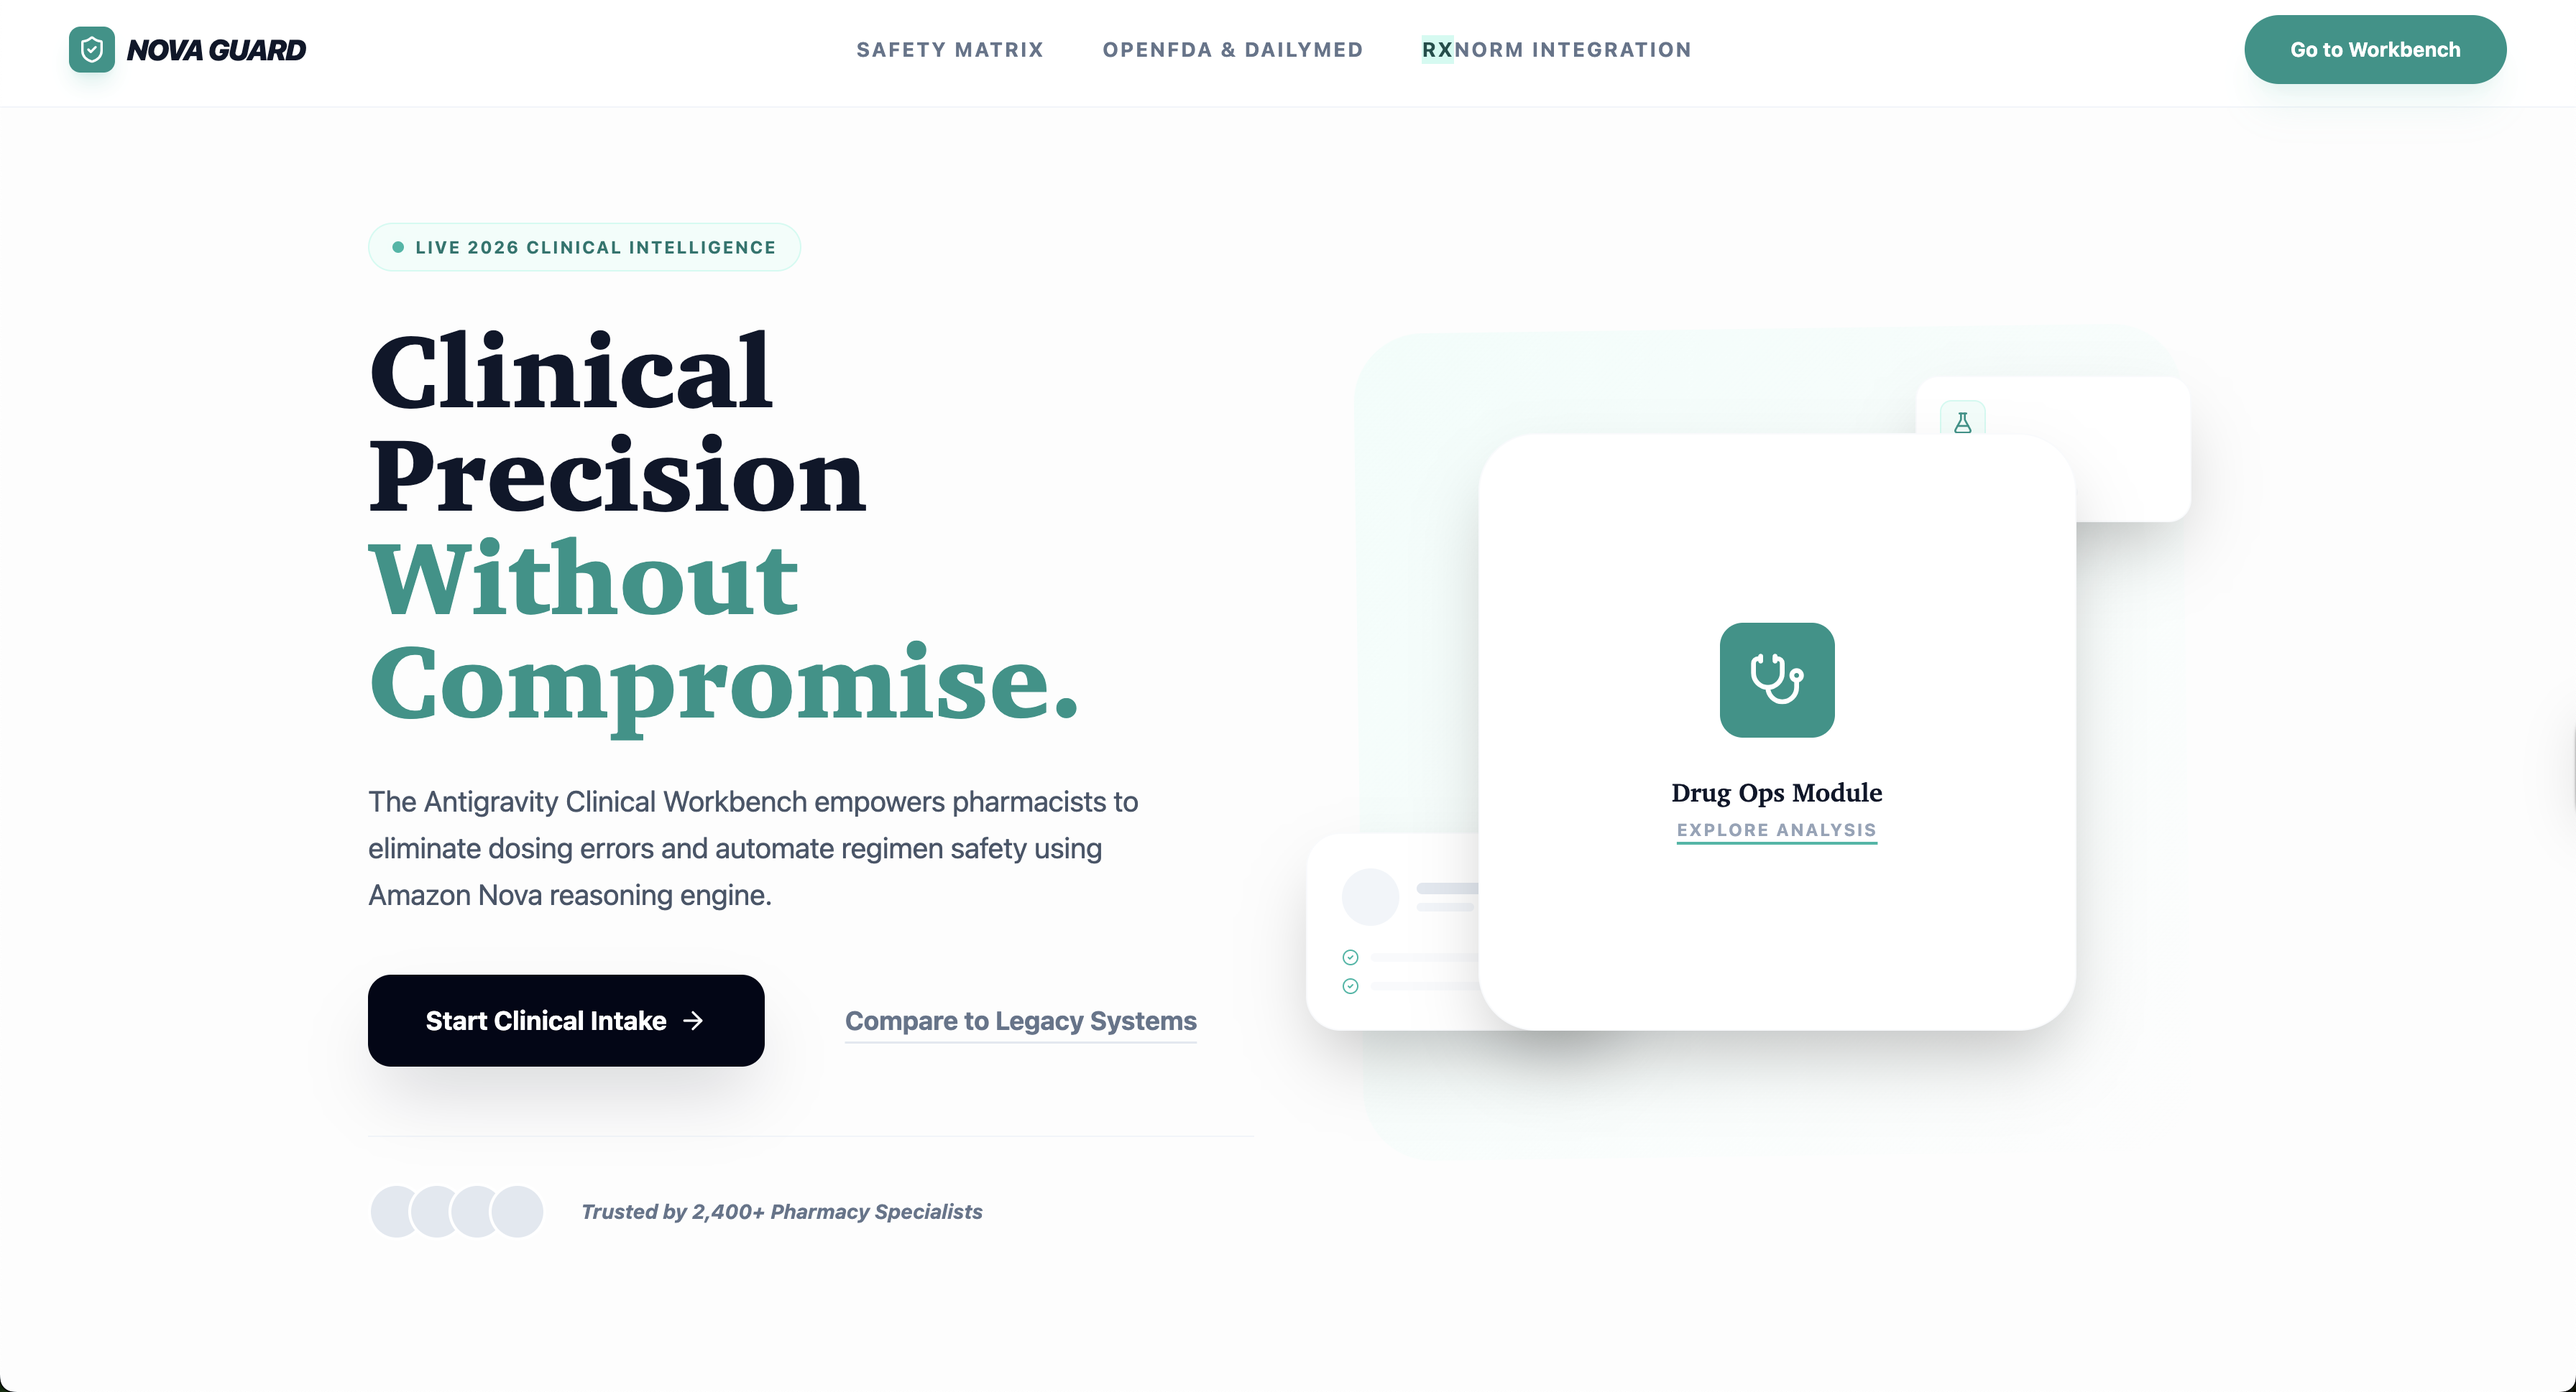
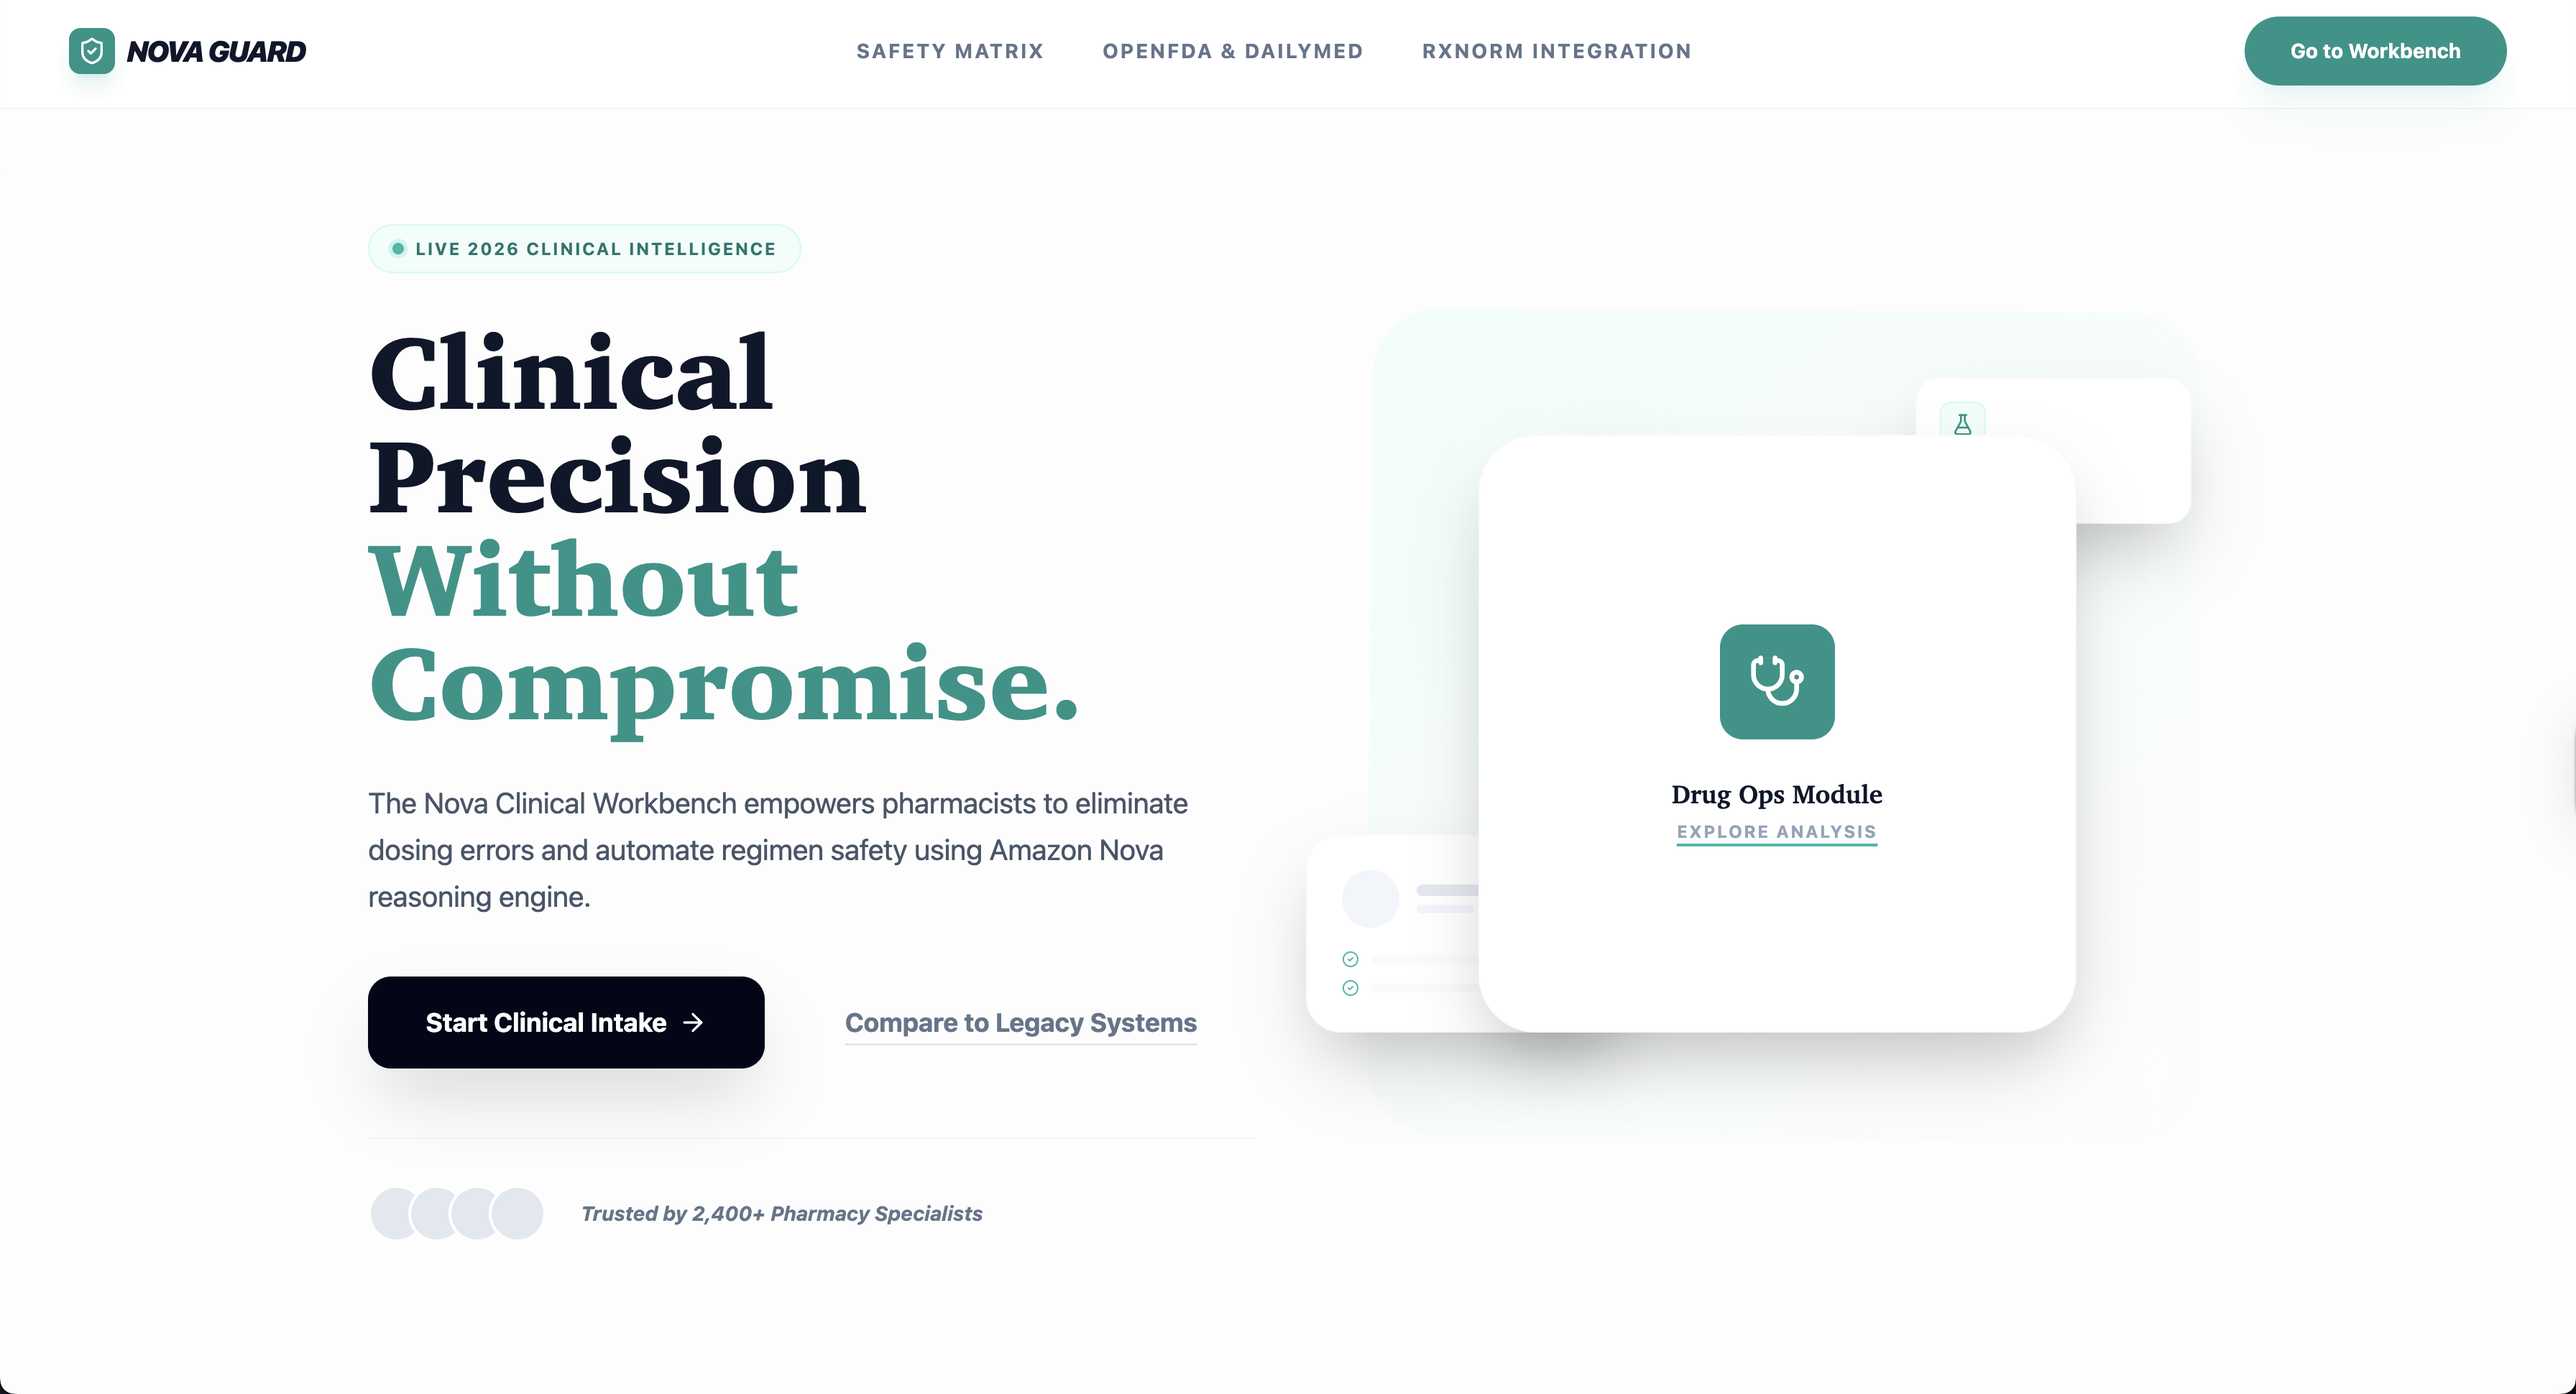
imag changed

diff --git a/about_project.md b/about_project.md
@@ -1,0 +1,47 @@
+# About Nova Guard
+
+## What Inspired Me
+I built Nova Guard because I am a pharmacist in tech working at the intersection of healthcare and technology, holding dual degrees in Pharmacology and Pharmacy. Every day, I found myself manually reviewing complex prescriptions, running a mental checklist that had to factor in a massive, multi-dimensional web of data: drug-specific issues, patient demographics, active comorbidities, pharmacogenomics (PGx), and fluctuating laboratory values. 
+
+Doing this entirely in your head or by constantly switching between five different clinical databases is cognitively exhausting and highly prone to human error, not just for me, but for every pharmacist and clinician on the floor. I wanted to build a product that acts as a definitive safety layer; an intelligent clinical companion that automatically synthesizes all patient and drug factors to make medication management faster, safer, and infinitely more reliable.
+
+## How I Built It
+Nova Guard is designed as a high-performance, AI-driven Clinical Decision Support System (CDSS). 
+
+**The Tech Stack:**
+*   **Frontend:** A responsive, hyper-focused UI built with **React**, **TypeScript**, **TailwindCSS**, and **Shadcn UI**. State management is optimized so pharmacists can drag-and-drop lab reports directly into patient profiles instantly.
+*   **Backend & Security:** A robust **Python** server utilizing **FastAPI** for asynchronous endpoint delivery, paired with **SQLAlchemy** and **PostgreSQL** for secure patient data persistence. The entire data pipeline is built from the ground up to be **HIPAA compliant**, ensuring all Protected Health Information (PHI) is handled securely, both at rest and in transit.
+*   **Clinical Data Infrastructure:** To ensure absolute clinical accuracy, the app integrates deeply with **National Library of Medicine (NLM)** and **FDA APIs**, specifically utilizing **RxNorm**, **RxClass**, **DailyMed**, and the **OpenFDA** datasets to retrieve highly structured, verified drug labels.
+*   **AI Orchestration:** The core "brain" of Nova Guard is powered by **AWS Bedrock** , **Open AI Api** and the **Amazon Nova** model family (Micro, Lite, Sonic). I also utilized **LangGraph** to build sophisticated, multi-step clinical reasoning agents that operate on top of the structured FDA data.
+
+**Core Features:**
+Nova Guard doesn't just read data; it actively interprets it. 
+1.  **Multi-Modal Inputs (Text, Vision & Voice):** Utilizing Amazon Nova, the system can extract structured biomarker data directly from physical laboratory reports via image recognition as well as extract medications in a precritpion with required informations. Furthermore, I integrated **Amazon Nova 2 Sonic** to enable hands-free voice dictation. Pharmacists can verbally review cases, transcribe their speech to text for submission, and the system can even read the clinical response back aloud, ideal for sterile compounding environments or busy sterile workflows.
+2.  **Safety Matrix & Counseling Generator:** Analyzes complete medication protocols against patient history to provide a 3-point expert consensus for patient counseling.
+3.  **Advanced Clinical Calculators:** The system natively implements strict pharmacokinetic equations, such as the Cockcroft-Gault formula for Creatinine Clearance (CrCl), automatically determining whether to use Actual, Ideal, or Adjusted Body Weight:
+    
+    $$ CrCl = \frac{(140 - Age) \times Weight_{dosing}}{72 \times SCr} \times (0.85 \text{ if female}) $$
+
+    *Once calculated, the AI pairs the quantitative result with FDA-indexed dosing tables to recommend precise renal modifications.*
+
+## What I Learned
+Building Nova Guard forced me to bridge the gap between deterministic clinical logic and probabilistic AI. I learned how to engineer highly structured prompts that force Large Language Models (LLMs) to output strict, predictable JSON schemas, turning raw medical text into actionable application state. 
+
+I also deepened my understanding of modern web architecture, specifically how to decouple heavy, long-running AI inference tasks from the main user thread using asynchronous endpoints and React state updates. I learned that in clinical software, speed and UX are just as critical as the underlying data—if a tool isn't fast, clinicians simply won't use it.
+
+## Challenges I Faced
+**1. Latency vs. Accuracy in the Pharmacy Workflow:**
+In a pharmacy setting, waiting 15 seconds for a database query is unacceptable. My biggest technical hurdle was optimizing the AI response times. I initially coupled the vision processing for lab reports directly with the database saving process, which caused slow, synchronous blocking. 
+*   **The Fix:** I refactored the backend to make the AI endpoints completely stateless and asynchronous. The AI solely acts as an extraction engine, immediately streaming the data back to the frontend's local state, allowing the pharmacist to review multiple documents seamlessly before executing a final database sync.
+
+**2. Taming the AI for Clinical Safety (Hallucination Prevention):**
+AI models are notorious for "hallucinating." In pharmacy, a hallucination can be fatal. I could not allow the AI to invent dosage guidelines, guess at contraindications, or assume drug metabolic pathways.
+*   **The Fix:** I developed a strict **Retrieval-Augmented Generation (RAG)** architecture grounded exclusively in verified clinical data. Before the LLM makes any decision, the backend first queries **RxNorm** to get the precise computational identifier for a drug. It then pulls the exact Section 12.3 (Pharmacokinetics) or Boxed Warnings directly from **OpenFDA** and **DailyMed** JSON labels. The system feeds the AI these verified, hard-coded textual parameters alongside the patient profile, restricting the LLM to act strictly as a *reasoning engine* (e.g., comparing the patient's CrCl against the FDA label's specific renal cutoffs) rather than an encyclopedic memory. This virtually eliminates hallucinations. 
+
+Nova Guard is the culmination of my clinical background and my passion for engineering—proof that when clinicians design the technology they use, the standard of care elevates for everyone.
+
+## What's Next for Nova Guard
+Our immediate goal is to optimize and successfully **launch Nova Guard** into a live, pilot pharmacy environment to observe its impact on actual workflow efficiency and error reduction. Moving forward, we plan to expand the system's capabilities by:
+*   **EHR Integration:** Building seamless, bi-directional HL7/FHIR integrations so Nova Guard can pull patient data directly from existing Electronic Health Records (EHRs) automatically.
+*   **Predictive Procurement:** Leveraging our AI to not only suggest therapeutic substitutions during shortages, but to predict those shortages based on global API (Active Pharmaceutical Ingredient) supply chain data, prompting the pharmacy to order alternatives proactively.
+*   **Continuous Learning Loop:** Implementing a feedback mechanism where clinical pharmacists can flag or refine the AI's counseling points, creating a localized, continuously improving clinical brain for the pharmacy team.
